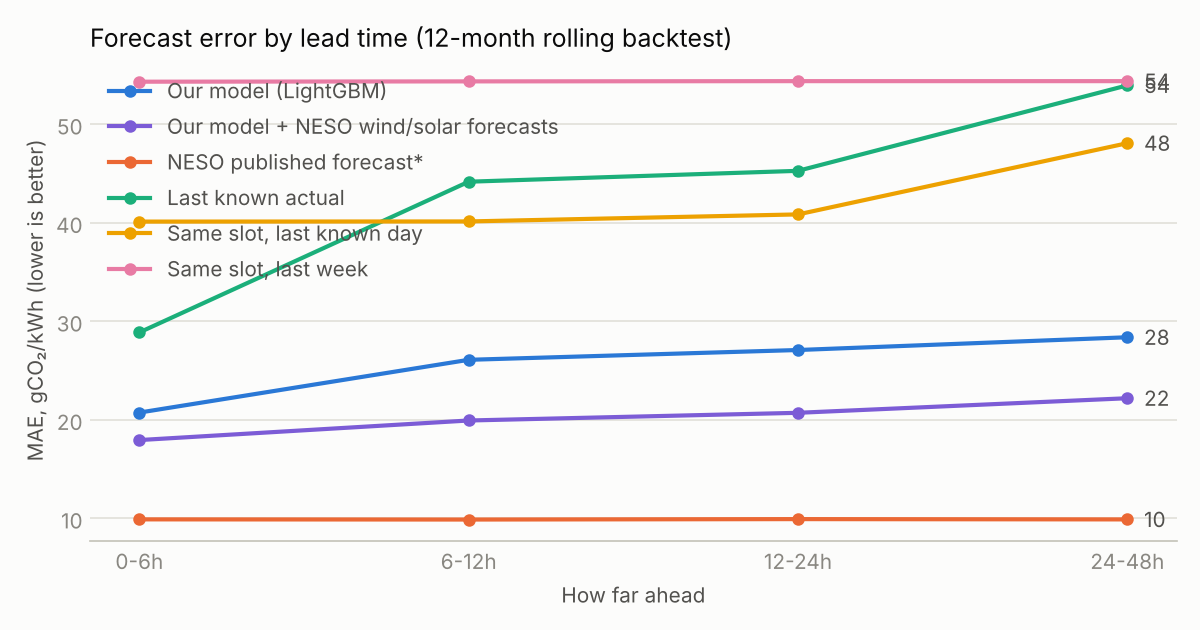
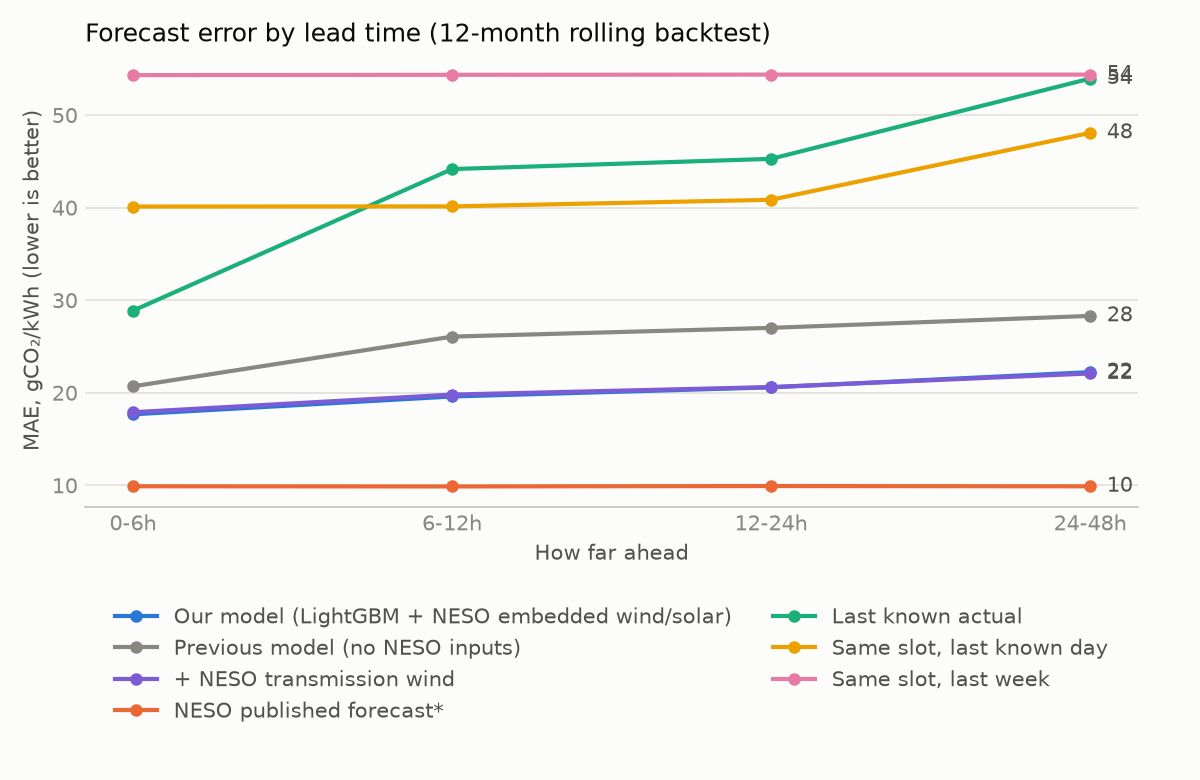
Forecast: NESO embedded wind/solar forecasts as live model inputs (v3)
The live model now uses NESO's embedded wind and solar forecast vintages.
Backtest MAE 26.8 -> 20.9, better at every lead. Transmission wind is left
out (its archive covers only the publication day). If any live target lacks
an embedded value, the run falls back to the v2 features and labels the
forecast lgbm-direct-v2.

diff --git a/analysis/backtest.py b/analysis/backtest.py
@@ -44,22 +44,29 @@ con = connect(Settings(db_target="local"))
 grid, wx = fc.load_history(con)
 hols = fc.holidays()
 neso = fc.load_neso_forecasts(con)
-# The live model ("model") plus a candidate that adds NESO's own wind/solar forecasts as inputs.
-variants = {"model": fc.FEATURES, "model_neso": fc.FEATURES + fc.NESO_FEATURES}
+# The live model (v3: + NESO embedded wind/solar), the previous one (v2: no NESO inputs) and one
+# that also adds NESO's transmission wind forecast, all trained and scored on the same folds.
+variants = {
+    "model": fc.FEATURES,
+    "model_v2": fc.BASE_FEATURES,
+    "model_neso_wind": fc.BASE_FEATURES + fc.NESO_FEATURES,
+}
 preds = fc.backtest(grid, wx, hols, months=12, neso=neso, variants=variants)
-methods = {"model": "Our model (LightGBM)", "model_neso": "Our model + NESO wind/solar forecasts",
+methods = {"model": "Our model (LightGBM + NESO embedded wind/solar)",
+           "model_v2": "Previous model (no NESO inputs)",
+           "model_neso_wind": "+ NESO transmission wind",
            "neso": "NESO published forecast*",
            "last_actual": "Last known actual",
            "lag_day": "Same slot, last known day", "lag_week": "Same slot, last week"}  # fmt: skip
 table = fc.mae_by_lead(preds, list(methods))
 
-# Chart: MAE by lead band, one line per method (4 series: legend + direct labels).
+# Chart: MAE by lead band, one line per method (legend + direct labels).
 bands = [b for b in table.index if b != "all"]
-fig, ax = plt.subplots(figsize=(8, 4.2), dpi=150)
+fig, ax = plt.subplots(figsize=(8, 5.2), dpi=150)
 fig.patch.set_facecolor(SURFACE)
 ax.set_facecolor(SURFACE)
 for (col, label), colour in zip(
-    methods.items(), (BLUE, VIOLET, ORANGE, AQUA, YELLOW, MAGENTA), strict=True
+    methods.items(), (BLUE, MUTED, VIOLET, ORANGE, AQUA, YELLOW, MAGENTA), strict=True
 ):
     ax.plot(bands, table.loc[bands, col], color=colour, linewidth=2, marker="o", markersize=5,
             label=label)  # fmt: skip
@@ -74,13 +81,13 @@ ax.set_axisbelow(True)
 for side in ("top", "right", "left"):
     ax.spines[side].set_visible(False)
 ax.spines["bottom"].set_color(AXIS)
-ax.legend(frameon=False, labelcolor=INK2, loc="upper left")
+ax.legend(frameon=False, labelcolor=INK2, loc="upper center", bbox_to_anchor=(0.5, -0.18), ncol=2)
 fig.tight_layout()
 (ROOT / "docs" / "img").mkdir(parents=True, exist_ok=True)
 fig.savefig(ROOT / "docs" / "img" / "backtest_mae_by_lead.png", facecolor=SURFACE)
 
 # Feature importance from a model trained on everything (gain = total loss reduction).
-model = fc.fit(fc.training_rows(grid, wx, hols, preds["issued_at"].max()))
+model = fc.fit(fc.training_rows(grid, wx, hols, preds["issued_at"].max(), neso))
 gain = pd.Series(model.booster_.feature_importance("gain"), index=fc.FEATURES)
 gain = (gain / gain.sum()).sort_values(ascending=False)
 
@@ -112,10 +119,11 @@ Open-Meteo's *historical forecast*, never observed weather. These rules are enfo
 
 **Result.** Over all leads the model's MAE is **{overall["model"]:.1f} gCO₂/kWh**, vs
 **{best_baseline:.1f}** for the best naïve baseline (**{1 - overall["model"] / best_baseline:.0%}
-better**) and **{overall["neso"]:.1f}** for NESO's published forecast. Adding NESO's own
-day-ahead wind and embedded wind/solar forecasts as inputs (the vintage issued before each
-forecast, never a later one) gives **{overall["model_neso"]:.1f}**; it is a candidate, not yet the
-live model.
+better**) and **{overall["neso"]:.1f}** for NESO's published forecast. The model uses NESO's own
+embedded wind/solar forecasts as inputs (the vintage issued before each forecast, never a later
+one); without them (the previous model) it scores **{overall["model_v2"]:.1f}**. Also adding
+NESO's transmission wind forecast gives **{overall["model_neso_wind"]:.1f}**, but its archive only
+covers the day each forecast is published, so most 48 h targets lack it and it is left out.
 
 ![MAE by lead](img/backtest_mae_by_lead.png)
 

diff --git a/src/gridcarbon/forecast.py b/src/gridcarbon/forecast.py
@@ -22,18 +22,23 @@ ACTUAL_LAG = pd.Timedelta(hours=1)  # actuals publish late: never use the last h
 # half-hour of the day. Live runs issue at any half-hour; a fixed 6 h grid left (lead, slot)
 # combinations unseen and skewed live forecasts.
 ISSUE_EVERY = "390min"
-MODEL_VERSION = "lgbm-direct-v2"
+MODEL_VERSION = "lgbm-direct-v3"
+FALLBACK_VERSION = "lgbm-direct-v2"  # BASE_FEATURES only: used live when NESO inputs are missing
 # Short leads lean on the last known actual: weight exp(-(lead-1)/6). Decay chosen on the first
 # 6 backtest months, checked on the last 6 (0-2 h MAE 19.1 -> 17.0; overall unchanged).
 PERSISTENCE_DECAY = 6
-FEATURES = [
+BASE_FEATURES = [
     "lead", "halfhour_slot", "iso_weekday", "month", "is_holiday",
     "last_actual", "mean_24h", "lag_day", "lag_week",
     "wind_speed", "solar_radiation", "temperature",
 ]  # fmt: skip
-# Candidate inputs from NESO's own forecasts (raw.neso_*), each the latest vintage made at least
-# NESO_LAG before issue. Backtested alongside FEATURES; the live model uses them once they win.
+# Inputs from NESO's own forecasts (raw.neso_*), each the latest vintage made at least NESO_LAG
+# before issue.
 NESO_FEATURES = ["neso_wind_mw", "neso_embedded_wind_mw", "neso_embedded_solar_mw"]
+# The live model (v3) uses the embedded forecasts but not transmission wind: NESO's day-ahead wind
+# archive only covers the day it is published, so most 48 h targets have no vintage. Revisit once
+# raw.neso_wind_14d_snapshots has a few weeks of history.
+FEATURES = BASE_FEATURES + ["neso_embedded_wind_mw", "neso_embedded_solar_mw"]
 NESO_LAG = pd.Timedelta(minutes=30)  # allowance for publication after Forecast_Timestamp
 NESO_SQL = {
     "raw.neso_wind_forecast": "forecast_mw as neso_wind_mw",
@@ -224,7 +229,7 @@ def predict_live(con, now: datetime) -> pd.DataFrame:
     # Issue at the same time as this run's NESO snapshot, so the two forecasts join exactly.
     snap = con.sql("select max(issued_at) from raw.official_forecast_snapshots").fetchone()[0]
     issue = pd.Timestamp(snap if snap is not None else now).tz_convert(UTC).floor("30min")
-    model = fit(training_rows(grid, wx_hist, hols, issue))
+    neso = load_neso_forecasts(con)
     wx_live = (
         con.sql(
             GB_WEATHER_SQL.format(
@@ -236,14 +241,20 @@ def predict_live(con, now: datetime) -> pd.DataFrame:
         .df()
         .set_index("hour_utc")
     )
-    rows = features(grid, wx_live.combine_first(wx_hist), pd.DatetimeIndex([issue]), hols)
+    rows = features(grid, wx_live.combine_first(wx_hist), pd.DatetimeIndex([issue]), hols, neso)
+    # A stalled NESO feed leaves targets uncovered, which training almost never saw: fall back to
+    # the model without NESO inputs, and label it, rather than publish v3 on unfamiliar inputs.
+    cols, version = FEATURES, MODEL_VERSION
+    if rows[FEATURES].drop(columns=BASE_FEATURES).isna().any().any():
+        cols, version = BASE_FEATURES, FALLBACK_VERSION
+    model = fit(training_rows(grid, wx_hist, hols, issue, neso), cols)
     return pd.DataFrame(
         {
             "issued_at": rows["issued_at"],
             "period_from": rows["period_from"],
             "lead": rows["lead"],
-            "yhat": blend(rows, model.predict(rows[FEATURES])),
-            "model_version": MODEL_VERSION,
+            "yhat": blend(rows, model.predict(rows[cols])),
+            "model_version": version,
         }
     )
 

diff --git a/tests/test_forecast.py b/tests/test_forecast.py
@@ -139,8 +139,67 @@ def test_backtest_scores_every_variant_on_the_same_rows(monkeypatch):
 
     monkeypatch.setattr(fc, "fit", fake_fit)
     grid = spine(120)
-    variants = {"model": fc.FEATURES, "model_neso": fc.FEATURES + fc.NESO_FEATURES}
+    variants = {"model": fc.BASE_FEATURES, "model_neso": fc.BASE_FEATURES + fc.NESO_FEATURES}
     preds = fc.backtest(grid, hourly_weather(120), set(), months=1, variants=variants)
     far = preds[preds["lead"] == fc.HORIZON]  # blend weight ~0: the raw model output
-    assert far["model"].round(2).eq(len(fc.FEATURES)).all()
-    assert far["model_neso"].round(2).eq(len(fc.FEATURES) + 3).all()
+    assert far["model"].round(2).eq(len(fc.BASE_FEATURES)).all()
+    assert far["model_neso"].round(2).eq(len(fc.BASE_FEATURES) + 3).all()
+
+
+def live_setup(monkeypatch, covered: int):
+    """In-memory warehouse issuing at day 10, with an embedded vintage covering `covered` targets.
+    Returns (con, issue, dict that receives the feature frame the model predicts on)."""
+    import duckdb
+
+    issue = START + pd.Timedelta(days=10)
+    con = duckdb.connect()
+    con.execute("create schema raw")
+    con.execute("create table raw.official_forecast_snapshots (issued_at timestamptz)")
+    con.execute("insert into raw.official_forecast_snapshots values (?)", [issue])
+    con.execute(
+        "create table raw.weather_forecast_snapshots (issued_at timestamptz, time timestamptz, "
+        "point_id varchar, wind_speed_100m double, shortwave_radiation double, "
+        "temperature_2m double)"
+    )
+    targets = pd.date_range(issue, periods=covered, freq="30min")
+    embedded = pd.DataFrame(
+        {
+            "issued_at": issue - pd.Timedelta(hours=1),
+            "period_from": targets,
+            "neso_embedded_wind_mw": 1500.0,
+            "neso_embedded_solar_mw": 200.0,
+        }
+    )
+    monkeypatch.setattr(fc, "load_history", lambda con: (spine(20), hourly_weather(20)))
+    monkeypatch.setattr(fc, "load_neso_forecasts", lambda con: [embedded])
+    seen = {}
+
+    def fake_fit(rows, feature_cols=fc.FEATURES):
+        class M:
+            def predict(self, X):
+                seen["X"] = X
+                return np.zeros(len(X))
+
+        return M()
+
+    monkeypatch.setattr(fc, "fit", fake_fit)
+    return con, issue, seen
+
+
+def test_predict_live_uses_neso_embedded_forecasts(monkeypatch):
+    con, issue, seen = live_setup(monkeypatch, covered=fc.HORIZON)
+    out = fc.predict_live(con, issue.to_pydatetime())
+    assert len(out) == fc.HORIZON
+    assert (out["model_version"] == fc.MODEL_VERSION).all()
+    assert "neso_wind_mw" not in seen["X"]  # transmission wind is mostly missing upstream
+    assert (seen["X"]["neso_embedded_wind_mw"] == 1500.0).all()
+    assert (seen["X"]["neso_embedded_solar_mw"] == 200.0).all()
+
+
+def test_predict_live_falls_back_without_a_full_neso_vintage(monkeypatch):
+    # A stalled NESO feed leaves later targets uncovered: use the model without NESO inputs and
+    # say so in model_version, rather than publish a v3 forecast on inputs it never trained on.
+    con, issue, seen = live_setup(monkeypatch, covered=40)
+    out = fc.predict_live(con, issue.to_pydatetime())
+    assert list(seen["X"].columns) == fc.BASE_FEATURES
+    assert (out["model_version"] == fc.FALLBACK_VERSION).all()

diff --git a/docs/backtest.md b/docs/backtest.md
@@ -12,22 +12,23 @@ Features use only data available at issue time: actuals end 1 h before issue (pu
 Open-Meteo's *historical forecast*, never observed weather. These rules are enforced by
 `tests/test_forecast.py`.
 
-**Result.** Over all leads the model's MAE is **26.8 gCO₂/kWh**, vs
-**44.3** for the best naïve baseline (**39%
-better**) and **9.9** for NESO's published forecast. Adding NESO's own
-day-ahead wind and embedded wind/solar forecasts as inputs (the vintage issued before each
-forecast, never a later one) gives **21.0**; it is a candidate, not yet the
-live model.
+**Result.** Over all leads the model's MAE is **20.9 gCO₂/kWh**, vs
+**44.3** for the best naïve baseline (**53%
+better**) and **9.9** for NESO's published forecast. The model uses NESO's own
+embedded wind/solar forecasts as inputs (the vintage issued before each forecast, never a later
+one); without them (the previous model) it scores **26.8**. Also adding
+NESO's transmission wind forecast gives **20.9**, but its archive only
+covers the day each forecast is published, so most 48 h targets lack it and it is left out.
 
 ![MAE by lead](img/backtest_mae_by_lead.png)
 
-|  | Our model (LightGBM) | Our model + NESO wind/solar forecasts | NESO published forecast* | Last known actual | Same slot, last known day | Same slot, last week |
-| --- | --- | --- | --- | --- | --- | --- |
-| 0-6h | 20.7 | 17.9 | 9.9 | 28.9 | 40.1 | 54.3 |
-| 6-12h | 26.1 | 19.9 | 9.9 | 44.2 | 40.1 | 54.4 |
-| 12-24h | 27.1 | 20.7 | 9.9 | 45.3 | 40.8 | 54.4 |
-| 24-48h | 28.4 | 22.2 | 9.9 | 53.9 | 48.1 | 54.4 |
-| all | 26.8 | 21 | 9.9 | 47.4 | 44.3 | 54.4 |
+|  | Our model (LightGBM + NESO embedded wind/solar) | Previous model (no NESO inputs) | + NESO transmission wind | NESO published forecast* | Last known actual | Same slot, last known day | Same slot, last week |
+| --- | --- | --- | --- | --- | --- | --- | --- |
+| 0-6h | 17.7 | 20.7 | 17.9 | 9.9 | 28.9 | 40.1 | 54.3 |
+| 6-12h | 19.6 | 26.1 | 19.8 | 9.9 | 44.2 | 40.1 | 54.4 |
+| 12-24h | 20.6 | 27 | 20.6 | 9.9 | 45.3 | 40.8 | 54.4 |
+| 24-48h | 22.2 | 28.3 | 22.1 | 9.9 | 53.9 | 48.1 | 54.4 |
+| all | 20.9 | 26.8 | 20.9 | 9.9 | 47.4 | 44.3 | 54.4 |
 
 \* **Read the NESO column with care.** The API only keeps NESO's *final* published forecast for
 each half-hour, not when it was made, so it is likely a short-lead forecast. That makes it a
@@ -42,15 +43,17 @@ at long leads to be somewhat higher than this backtest.
 
 |  | gain_share |
 | --- | --- |
-| wind_speed | 0.36 |
-| lag_day | 0.173 |
-| last_actual | 0.123 |
-| lag_week | 0.076 |
-| month | 0.058 |
-| halfhour_slot | 0.053 |
-| temperature | 0.049 |
-| iso_weekday | 0.046 |
-| solar_radiation | 0.027 |
+| neso_embedded_wind_mw | 0.414 |
+| lag_day | 0.137 |
+| last_actual | 0.08 |
+| halfhour_slot | 0.061 |
+| lag_week | 0.054 |
+| neso_embedded_solar_mw | 0.053 |
+| month | 0.047 |
+| wind_speed | 0.044 |
+| iso_weekday | 0.042 |
+| temperature | 0.037 |
 | mean_24h | 0.02 |
-| lead | 0.01 |
-| is_holiday | 0.005 |
+| is_holiday | 0.004 |
+| lead | 0.004 |
+| solar_radiation | 0.003 |

diff --git a/README.md b/README.md
@@ -45,18 +45,21 @@ From [`docs/findings.md`](docs/findings.md) (every number computed by `analysis/
 
 ## The forecast
 
-A direct multi-horizon LightGBM model predicts all 96 half-hours of the next 48 h. Over a 12-month
-rolling-origin backtest (last run <!-- bt:run_date -->2026-10-18<!-- /bt -->) its MAE is **<!-- bt:model_mae -->26.8<!-- /bt --> gCO₂/kWh**,
-**<!-- bt:improvement -->39%<!-- /bt --> better** than the best naïve baseline (<!-- bt:best_baseline_mae -->44.3<!-- /bt -->), and it beats "repeat the last
+A direct multi-horizon LightGBM model predicts all 96 half-hours of the next 48 h from the
+calendar, recent actuals, forecast weather and NESO's own embedded wind/solar forecasts. Over a 12-month
+rolling-origin backtest (last run <!-- bt:run_date -->2026-10-18<!-- /bt -->) its MAE is **<!-- bt:model_mae -->20.9<!-- /bt --> gCO₂/kWh**,
+**<!-- bt:improvement -->53%<!-- /bt --> better** than the best naïve baseline (<!-- bt:best_baseline_mae -->44.3<!-- /bt -->), and it beats "repeat the last
 actual" at every lead time. NESO's published forecast scores <!-- bt:neso_mae -->9.9<!-- /bt -->, but the API keeps only NESO's *final*, short-lead forecast, so the fair comparison is the
 **live track record**: both forecasts issued in the same pipeline run, scored when actuals arrive
 (`marts.fct_model_vs_official`, shown in the dashboard). Leakage rules (publication lag,
 forecast-not-observed weather, train-before-test) are enforced by tests. Details:
 [`docs/backtest.md`](docs/backtest.md).
 
-**Next model (candidate).** Adding NESO's own day-ahead wind and embedded wind/solar forecasts as
-inputs (always the vintage published before each forecast) cuts the backtest MAE to **21.0**, and
-it wins at every lead time. It is not the live model yet.
+**NESO forecasts as inputs.** NESO's embedded wind/solar forecasts (always the vintage published
+before each forecast) cut the backtest MAE from 26.8 to the figure above, better at every lead
+time. NESO's transmission wind forecast is left out: its archive only covers the day each forecast
+is published, so most 48 h targets lack it. If NESO's feed stalls, the pipeline falls back to the
+model without NESO inputs and labels those forecasts `lgbm-direct-v2`.
 
 ## The dashboard
 
@@ -110,7 +113,7 @@ Found by running against the real APIs, not by unit tests (full write-up in
 | 7 | Analysis & findings → [`docs/findings.md`](docs/findings.md) | ✅ Done |
 | 8 | 48h forecast, backtest, live scoring vs NESO → [`docs/backtest.md`](docs/backtest.md) | ✅ Live |
 | 9 | Streamlit dashboard (`app/streamlit_app.py`) → [live](https://gb-grid-carbon-b8k4zy3yzvfzqzxewxzdsk.streamlit.app/) | ✅ Live |
-| 10 | NESO wind/solar forecasts loaded and backtested as model inputs (MAE 26.8 → 21.0) | 🔬 Candidate |
+| 10 | NESO embedded wind/solar forecasts as live model inputs (backtest MAE 26.8 → 20.9) | ✅ Live |
 
 Full plan: [`docs/project_plan.md`](docs/project_plan.md). Decisions and surprises:
 [`docs/dev_log.md`](docs/dev_log.md). CV bullets and interview notes:

diff --git a/docs/showcase.md b/docs/showcase.md
@@ -12,7 +12,7 @@ Material for the CV, LinkedIn and interviews. Every number comes from `docs/find
   31 December in year-spanning requests (missing data 10.4% → 0.29%), and 16 impossible upstream
   forecasts caught by a dbt range test.
 - Developed a 48-hour LightGBM carbon-intensity forecast with leakage-safe features and a 12-month
-  rolling-origin backtest; MAE <!-- bt:model_mae -->26.8<!-- /bt --> gCO₂/kWh, <!-- bt:improvement -->39%<!-- /bt --> better than naïve baselines, and scored live
+  rolling-origin backtest; MAE <!-- bt:model_mae -->20.9<!-- /bt --> gCO₂/kWh, <!-- bt:improvement -->53%<!-- /bt --> better than naïve baselines, and scored live
   against the system operator's forecast every pipeline run.
 - Analysed 9 years of grid data with bootstrap confidence intervals: intensity fell 48% (2018–2025),
   midday is now the cleanest time from spring to autumn, and smart EV charging cuts charging
@@ -78,7 +78,7 @@ enforce all three.
 The API only keeps NESO's final forecast, likely made shortly before the half-hour, and NESO also
 has generation schedules I don't. So the backtest comparison flatters NESO at long leads. The fair
 test is the live track record: both forecasts issued in the same run. My model's job is to beat
-naïve baselines (<!-- bt:improvement -->39%<!-- /bt --> better) and to be honest about where it stands.
+naïve baselines (<!-- bt:improvement -->53%<!-- /bt --> better) and to be honest about where it stands.
 
 **Tell me about a bug you found.**
 On day one the live forecast said ~170 when the last actual was 88 (the truth was 86). Two causes:

diff --git a/docs/dev_log.md b/docs/dev_log.md
@@ -125,3 +125,18 @@ ours) against actuals later.
   calls the `workflow_dispatch` API every 2 h with a fine-grained token (Actions read/write on
   this repo only; expires 17 Oct 2027). Overlapping runs are blocked by the concurrency group and
   loads are idempotent, so duplicate triggers are harmless.
+
+## 2026-10-18: NESO-input model goes live (v3)
+
+- **Live model is now `lgbm-direct-v3`**: the v2 features plus NESO's embedded wind and solar
+  forecasts. 12-month backtest MAE 26.8 -> 20.9, better at every lead. The embedded forecast is
+  refreshed every run and reaches about 3 days ahead, so it covers the full 48 h live.
+- **Transmission wind left out.** With it the backtest is also 20.9 (slightly worse at 0-6 h), and
+  its day-ahead archive covers only the day each forecast is published, so live rows would mostly
+  lack it. It can come back from `raw.neso_wind_14d_snapshots` once that has some history.
+- **Fallback if NESO stalls.** A stale vintage leaves later targets uncovered, which training
+  almost never saw. If any live target lacks an embedded value, the run trains on the v2 features
+  instead and labels the forecast `lgbm-direct-v2`, so the track record shows which model ran.
+- **Known gap:** embedded forecasts start in 2019, so 2017-2018 training rows have them missing.
+  LightGBM handles NaN, and the backtest scores the result, but the model could learn "missing
+  means an old year". Restricting training to 2019+ is worth testing.
